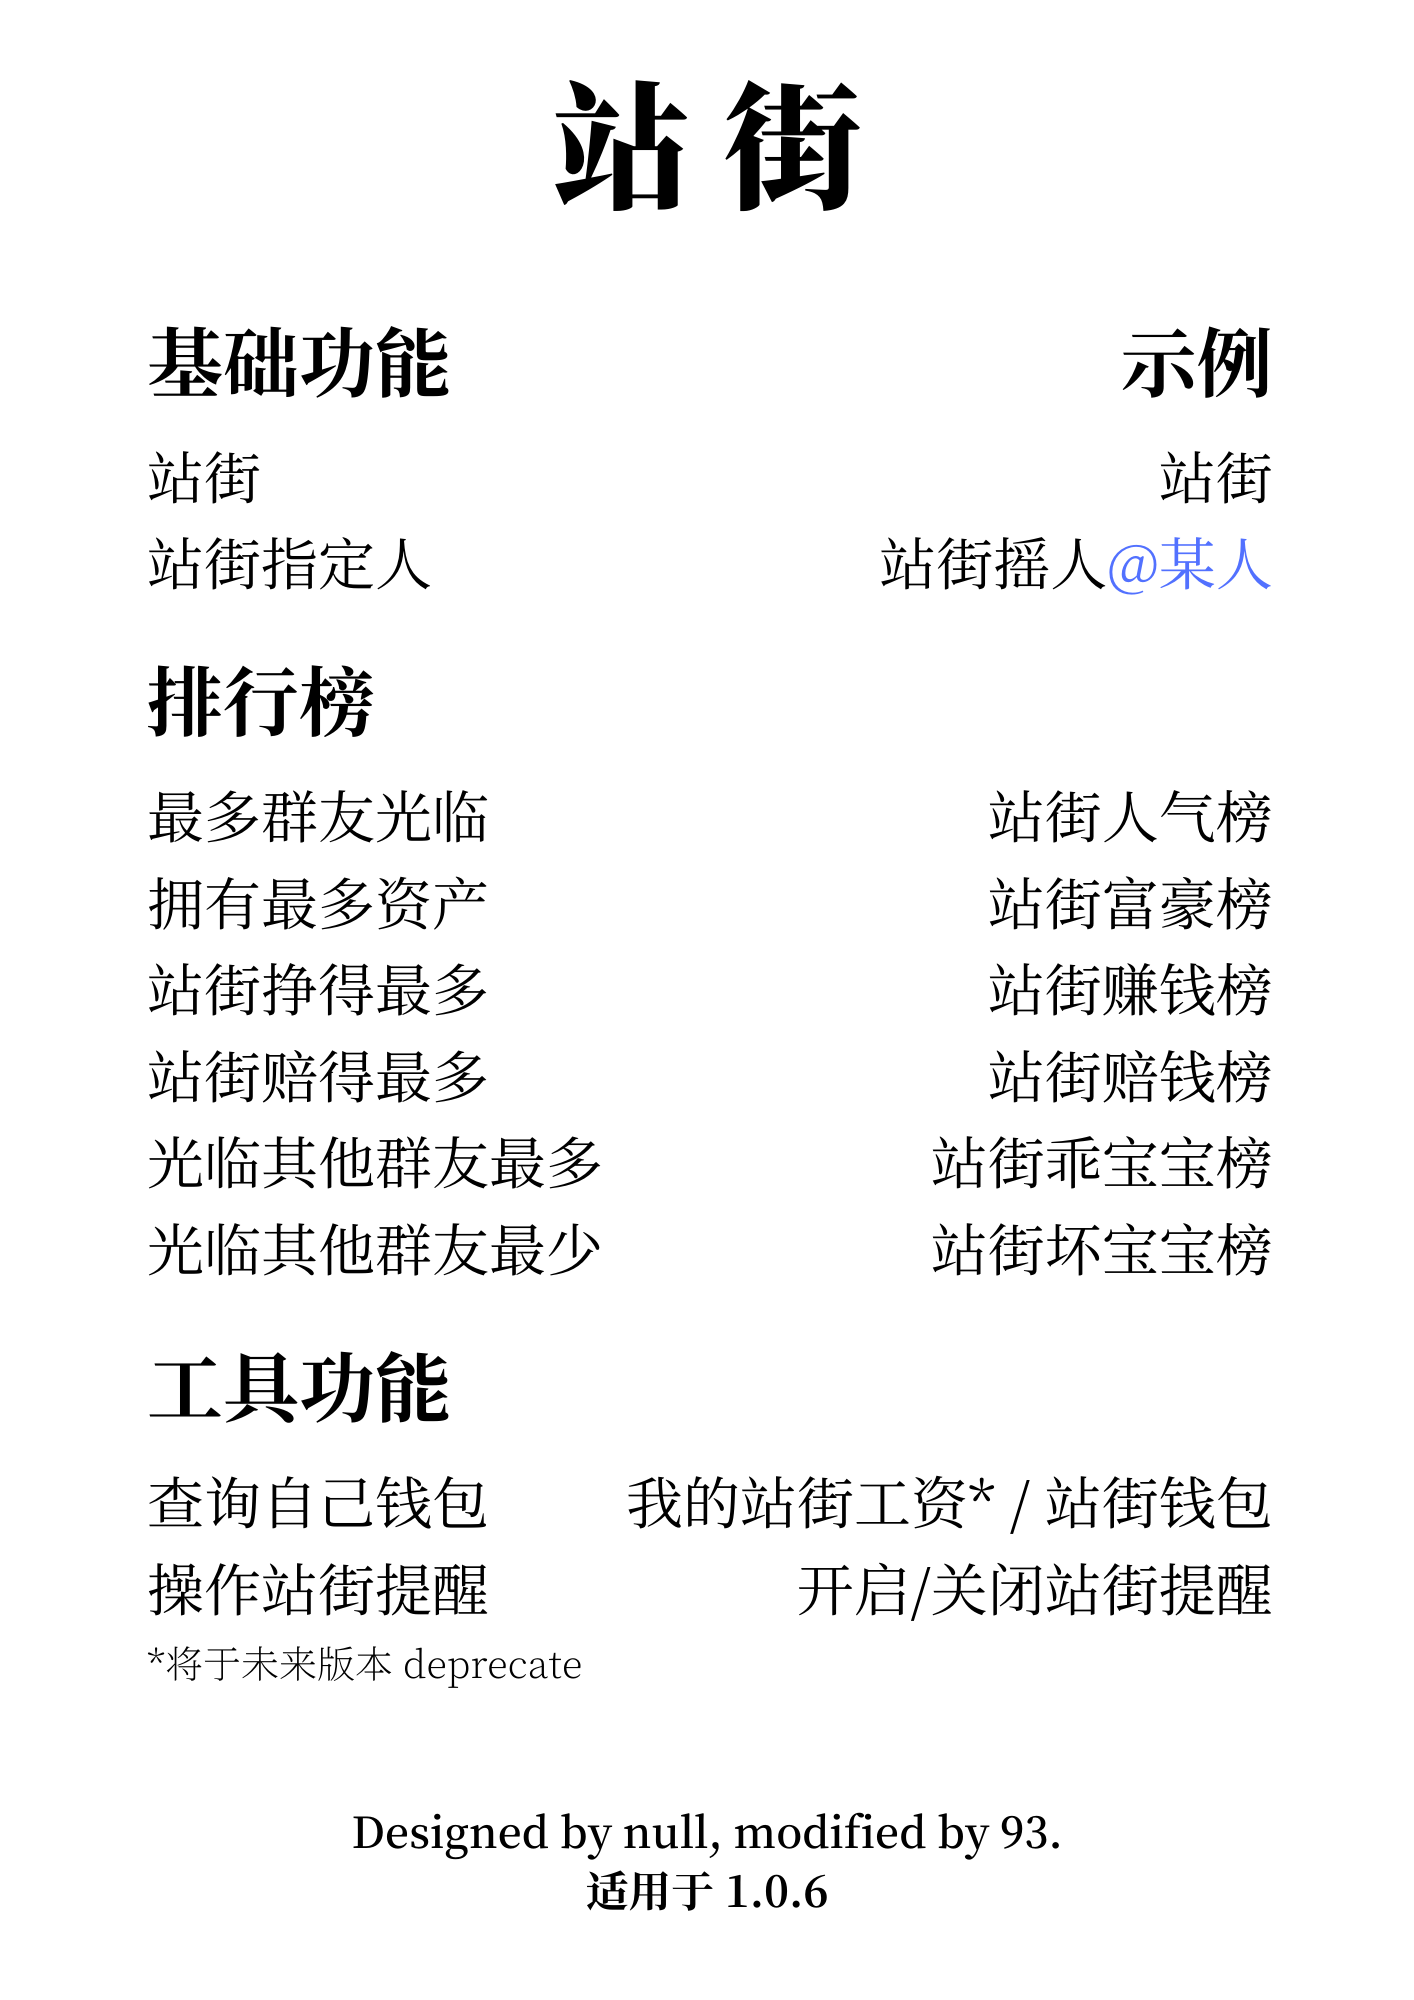
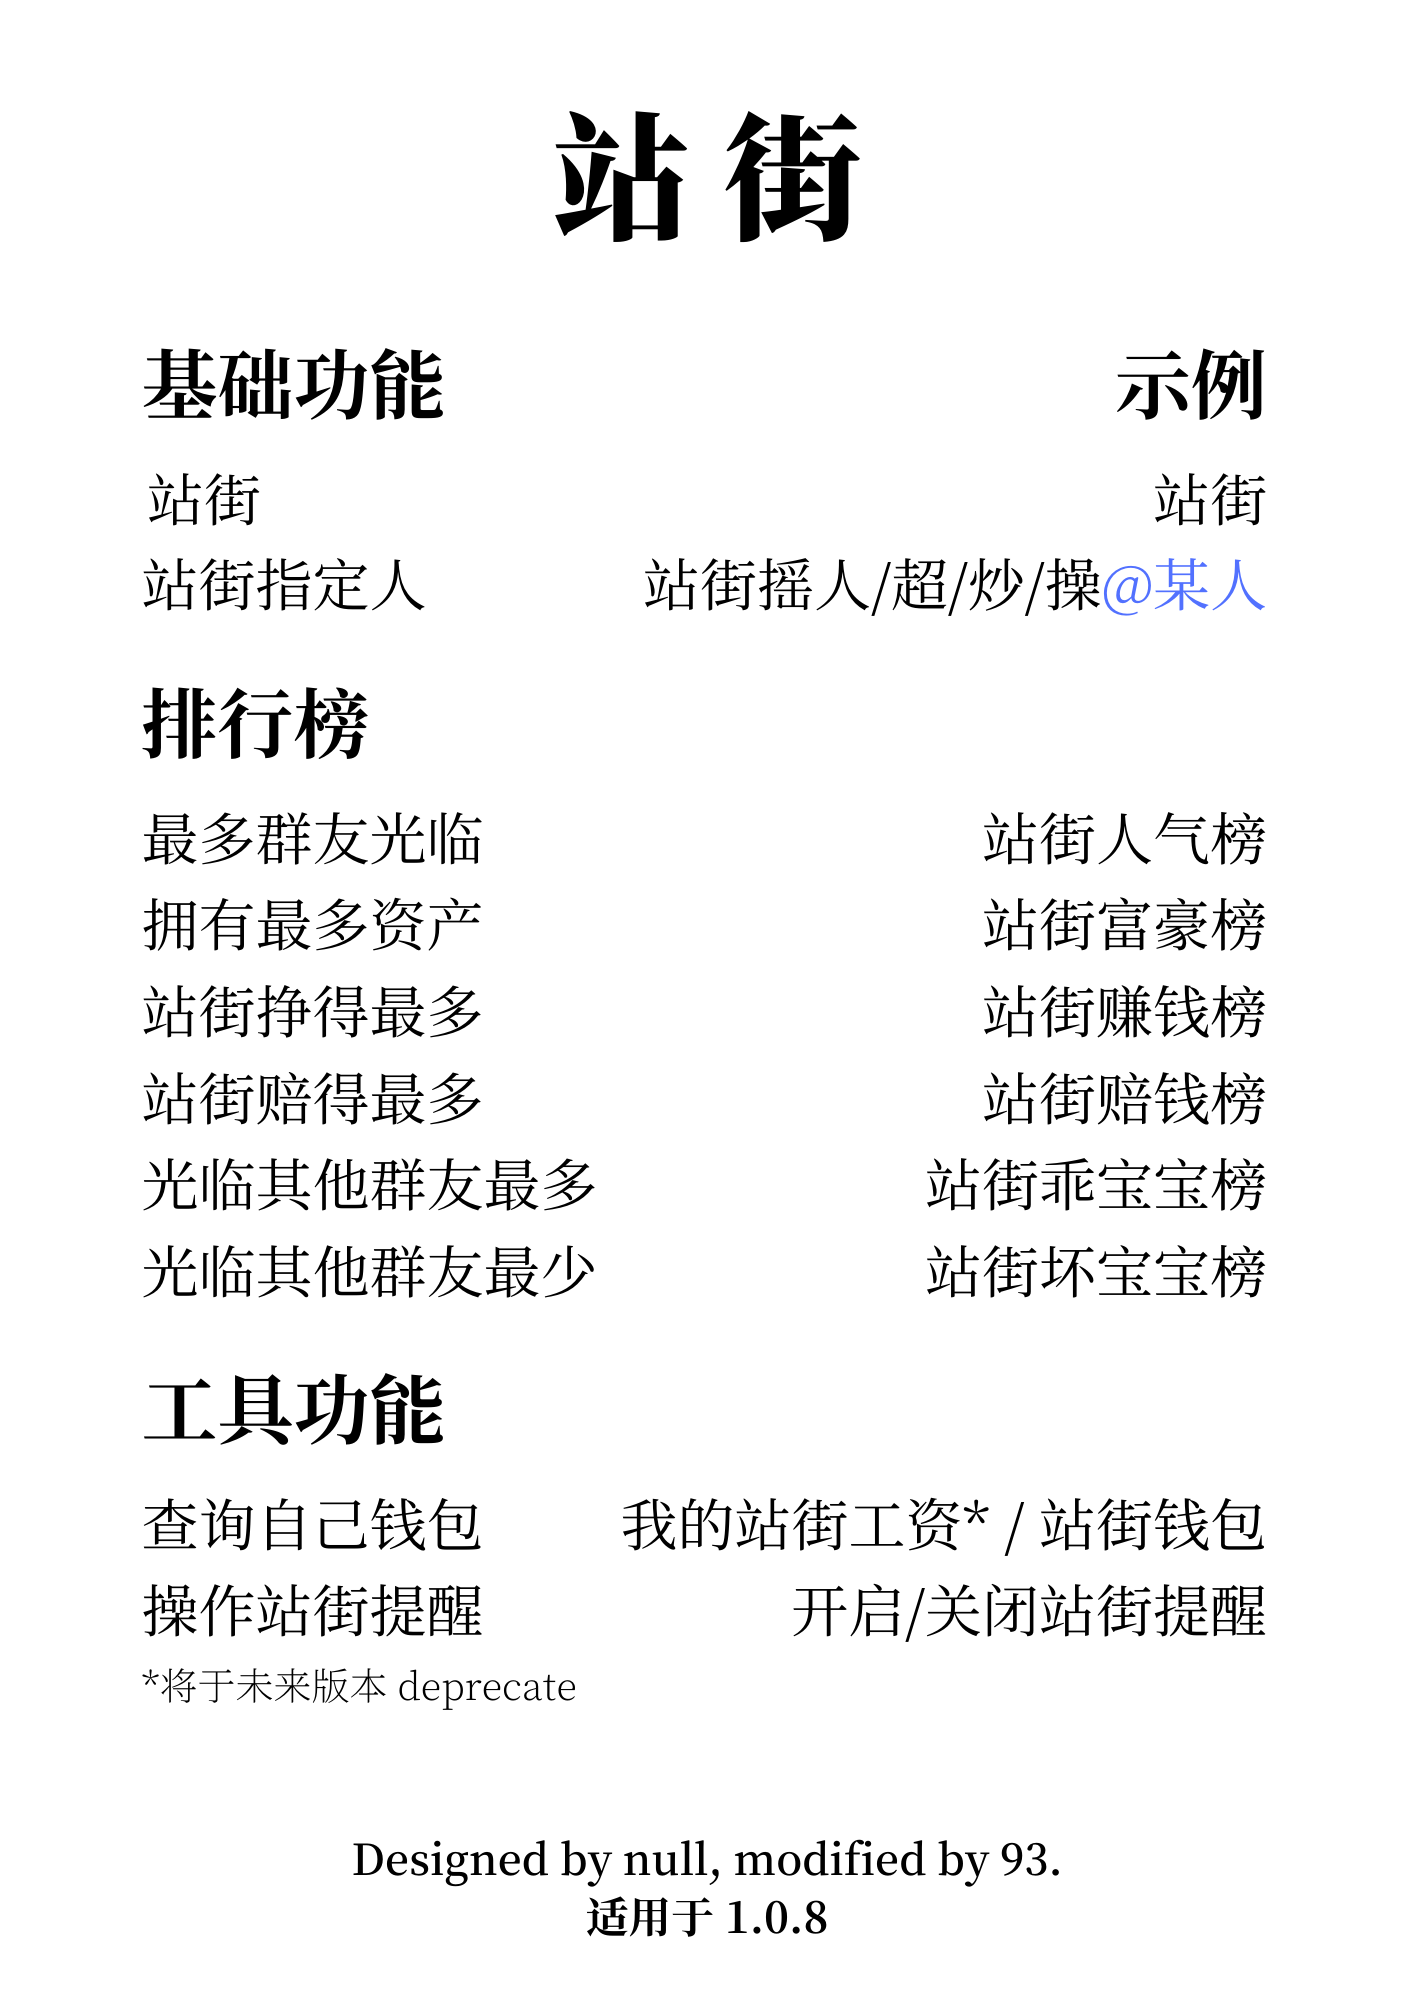
🔥 小修小补
- 改了点关键词
- 改了点匹配机制
- 改了点文案

diff --git a/stand.js b/stand.js
@@ -254,14 +254,24 @@ module.exports = async function (message, timestamp, filePath, type) {
         case 'call':
 
             let at = -1;
+            let atCount = 0;
 
             message.messageChain.forEach(chain => {
-                if (chain.type == 'At') at = chain.target;
+                if (chain.type == 'At') {
+                    at = chain.target;
+                    atCount ++;
+                };
             })
 
             // 如果没at
             if (at == -1) {
                 message.quoteReply("您没有选择摇人对象。");
+                return;
+            }
+            
+            // 如果at太多
+            if (atCount > 1) {
+                message.quoteReply("一次只能光临一人哦。");
                 return;
             }
 
@@ -595,7 +605,7 @@ async function genAvatarItem(qq, score) {
 
     const avatar = await genAvatar(qq, avatarSize);
 
-    const scoreText = text2svg.toSVG(score == 0 ? "白嫖" : score.toString(), {
+    const scoreText = text2svg.toSVG((score == 0 || score == '0') ? "白嫖" : score.toString(), {
         fontSize: secondaryFontSize
     });
 

diff --git a/index.js b/index.js
@@ -83,6 +83,7 @@ async function index(message) {
     if (!msg.includes("站街")) return;
 
     msg = s2t.t2s(msg);
+    msg = msg.replace(/ /g, '');
 
     if (msg == "关闭站街") {
         $.setModuleStatus(message, moduleName, 0);
@@ -109,7 +110,7 @@ async function index(message) {
         stand(message, timestamp, filePath, 'random');
     }
 
-    if (msg.includes("站街摇人")) {
+    if (msg == "站街摇人" || msg == "炒" || msg == "超" || msg == "操") {
         stand(message, timestamp, filePath, 'call');
     }
 
